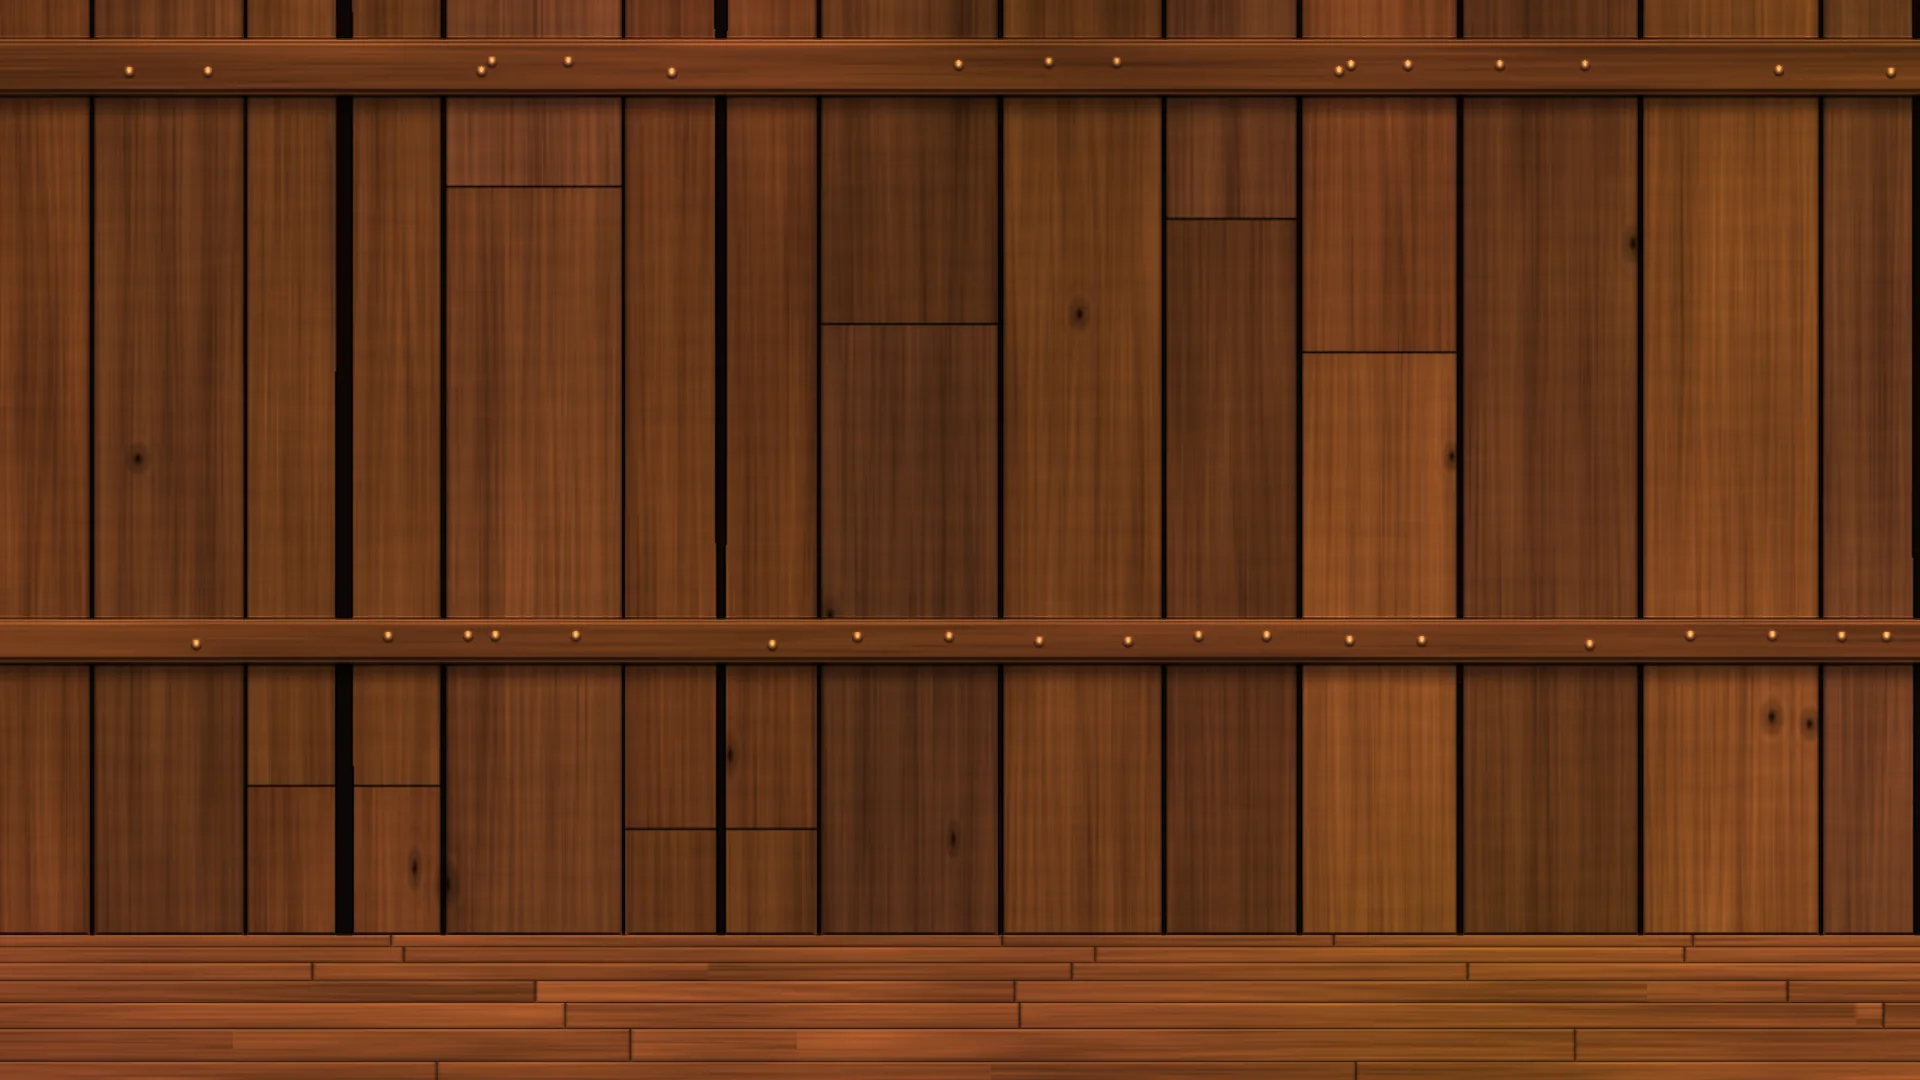
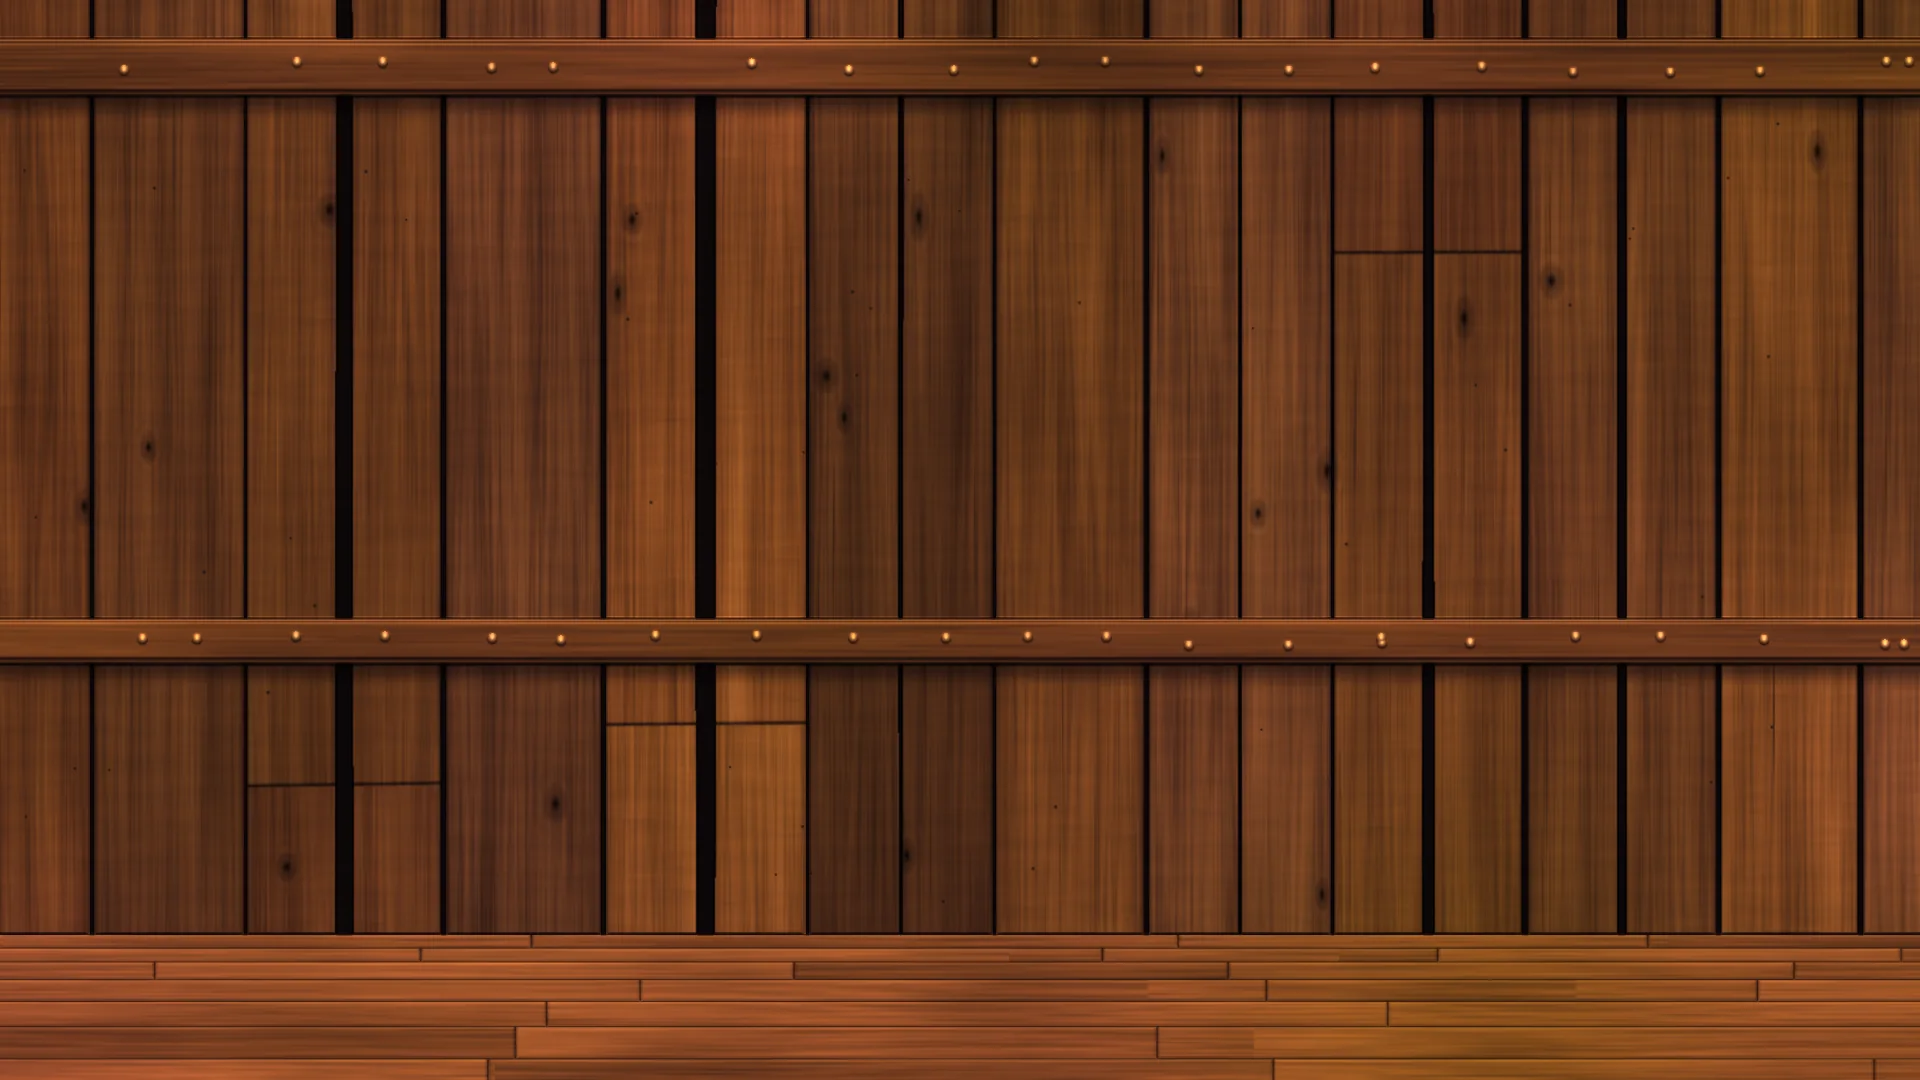
IVORY: the password always fits its plate; rougher, aubergine-shadowed planks
- Lobby: the longest pair of words the game coins clipped its first letter
  on the plate at 1600x900. The lettering now shrinks to fit as it is typed,
  rolled or resized.
- planks*.webp re-rendered: fewer butt joints, wandering grain lines, nail
  holes and more knots, board-to-board tone, the shadows pushed to aubergine
  and a heavier paint pass, so the wall reads less like tiled rectangles.

diff --git a/game/src/scenes/lobby.js b/game/src/scenes/lobby.js
@@ -290,7 +290,29 @@ export class LobbyScene extends Scene {
     });
 
     stage.appendChild(form);
+    /* The lettering is sized for the plate, and the longest pair of words the
+       game can coin ("whispering-torchlight") is wider than the plate at that
+       size — it clipped its first letter. So the words shrink to fit whatever
+       is in the field, as it is typed and whenever the screen is resized. */
+    const fit = () => this._fitCode(input);
+    input.addEventListener('input', fit);
+    roll.addEventListener('click', fit);
+    const onResize = () => requestAnimationFrame(fit);
+    addEventListener('resize', onResize, { passive: true });
+    this._offs.push(() => removeEventListener('resize', onResize));
+    fit();
     try { input.focus(); input.select(); } catch { /* focus is best-effort */ }
+  }
+
+  /** Shrink the password's lettering until every character is on its plate. */
+  _fitCode(input) {
+    if (!input || !input.isConnected) return;
+    input.style.fontSize = '';
+    let size = parseFloat(getComputedStyle(input).fontSize) || 30;
+    for (let i = 0; i < 40 && size > 15 && input.scrollWidth > input.clientWidth + 1; i++) {
+      size -= 1;
+      input.style.fontSize = `${size}px`;
+    }
   }
 
   /* ── the room ─────────────────────────────────────────────────────────── */

diff --git a/tools/prep_treehouse_art.py b/tools/prep_treehouse_art.py
@@ -62,7 +62,9 @@ def plank_albedo(h, w, rng, base, light, dark, scale=1.0):
     fine = aniso(0.7 * scale, 36 * scale, 1.0)           # the grain lines
     rings = 0.5 + 0.5 * np.sin((xx + figure * 26 * scale) / (2.1 * scale))
     saw = 0.5 + 0.5 * np.sin(yy / (5.5 * scale) + aniso(20, 4, 1.0) * 2.0)   # faint saw marks
-    t = 0.5 + figure * 0.28 + fine * 0.2 + (rings - 0.5) * 0.1 + (saw - 0.5) * 0.035
+    # dark grain lines that wander down the board, the way a brush draws them
+    streak = np.clip((aniso(0.9 * scale, 60 * scale, 1.0) - 0.35) * 3.2, 0, 1)
+    t = 0.5 + figure * 0.3 + fine * 0.24 + (rings - 0.5) * 0.1 + (saw - 0.5) * 0.03 - streak * 0.22
     return ramp(np.clip(t, 0, 1), [(0.0, dark), (0.5, base), (1.0, light)])
 
 
@@ -94,15 +96,15 @@ def treehouse_layers():
         sel = (xx >= x0) & (xx < x1)
         o = int(rng.uniform(0, H))
         wood = woods[k % 4][o:o + H]
-        tone = 1 + rng.uniform(-0.1, 0.12)
+        tone = 1 + rng.uniform(-0.17, 0.14)
         # some boards are two lengths butted together: another cut of grain, a
         # shade different, a dark joint where they meet
-        if rng.random() < 0.45:
+        if rng.random() < 0.24:
             jy = rng.uniform(Y_BEAM[1] + 90, Y_RAIL[0] - 60) if rng.random() < 0.6 else rng.uniform(Y_RAIL[1] + 60, Y_FLOOR - 70)
             o2 = int(rng.uniform(0, H))
             wood2 = woods[(k + 2) % 4][o2:o2 + H] * (1 + rng.uniform(-0.12, 0.1))
             wood = np.where((yy > jy)[..., None], wood2, wood)
-            joint = np.where(sel, np.maximum(joint, np.exp(-((yy - jy) / 1.3) ** 2)), joint)
+            joint = np.where(sel, np.maximum(joint, np.exp(-((yy - jy + (xx - x0) * rng.uniform(-.02, .02)) / 1.9) ** 2)), joint)
         alb = np.where(sel[..., None], wood * tone, alb)
         # each board catches the light a little differently along its length
         grad = 1 + rng.uniform(-0.1, 0.1) * (yy / H - 0.5) * 2
@@ -114,7 +116,7 @@ def treehouse_layers():
         gap_d = np.where(sel, d, gap_d)
         k += 1
         x = x1 + rng.uniform(3, 6)                      # the gap
-    alb = alb * (1 - joint[..., None] * 0.8)
+    alb = alb * (1 - joint[..., None] * 0.62)
     in_board = gap_d < 90
     # cupped boards: edges a little lower, a soft bevel into the gap
     cup = 7 + 1.6 * np.sin(np.pi * board_u)
@@ -124,8 +126,14 @@ def treehouse_layers():
     # weathering: water stains running down, a paler sun-bleached patch
     stain = noise((H, W), rng, (60, 8)) * 0.16 + noise((H, W), rng, 140) * 0.12
     alb = alb * (1 + stain[..., None])
+    # nail holes and old nails left from whatever the boards were before
+    for _ in range(46):
+        hx, hy = rng.uniform(0, W), rng.uniform(120, Y_FLOOR - 20)
+        hd = np.hypot(xx - hx, yy - hy)
+        hole = np.clip(1 - hd / rng.uniform(1.6, 2.6), 0, 1)
+        alb = alb * (1 - hole[..., None] * 0.7)
     # knots on some boards
-    for _ in range(11):
+    for _ in range(19):
         kx, ky = rng.uniform(0, W), rng.uniform(140, Y_FLOOR - 40)
         rx, ry = rng.uniform(7, 13), rng.uniform(14, 26)
         d = np.sqrt(((xx - kx) / rx) ** 2 + ((yy - ky) / ry) ** 2)
@@ -233,9 +241,15 @@ def planks():
     moon = light_planks(alb, hgt, gloss, Lm, (0.55, 0.68, 1.0), 0.55, 1.45,
                         spec_col=(60, 80, 120), floor_light=np.array([0, -0.25, 0.97], np.float32))
     moon = moon * ink
+    # the shadows go to aubergine, as every sample's do, before the paint pass
+    def aubergine(img, k):
+        lum = img.mean(axis=2, keepdims=True)
+        shadow = np.clip(1 - lum / 70.0, 0, 1)
+        return img * (1 - shadow * k) + shadow * k * np.array([30, 18, 38], np.float32) * (lum / 40.0 + 0.2)
+    dark, warm, moon = aubergine(dark, .55), aubergine(warm, .25), aubergine(moon, .35)
     out = []
     for img in (dark, warm, moon):
-        out.append(M.painterly(img, np.random.default_rng(81)))
+        out.append(M.painterly(img, np.random.default_rng(81), strength=1.35))
     save(out[0], "planks.webp", 86)
     save(out[1], "planks-warm.webp", 84)
     save(out[2], "planks-moon.webp", 84)
